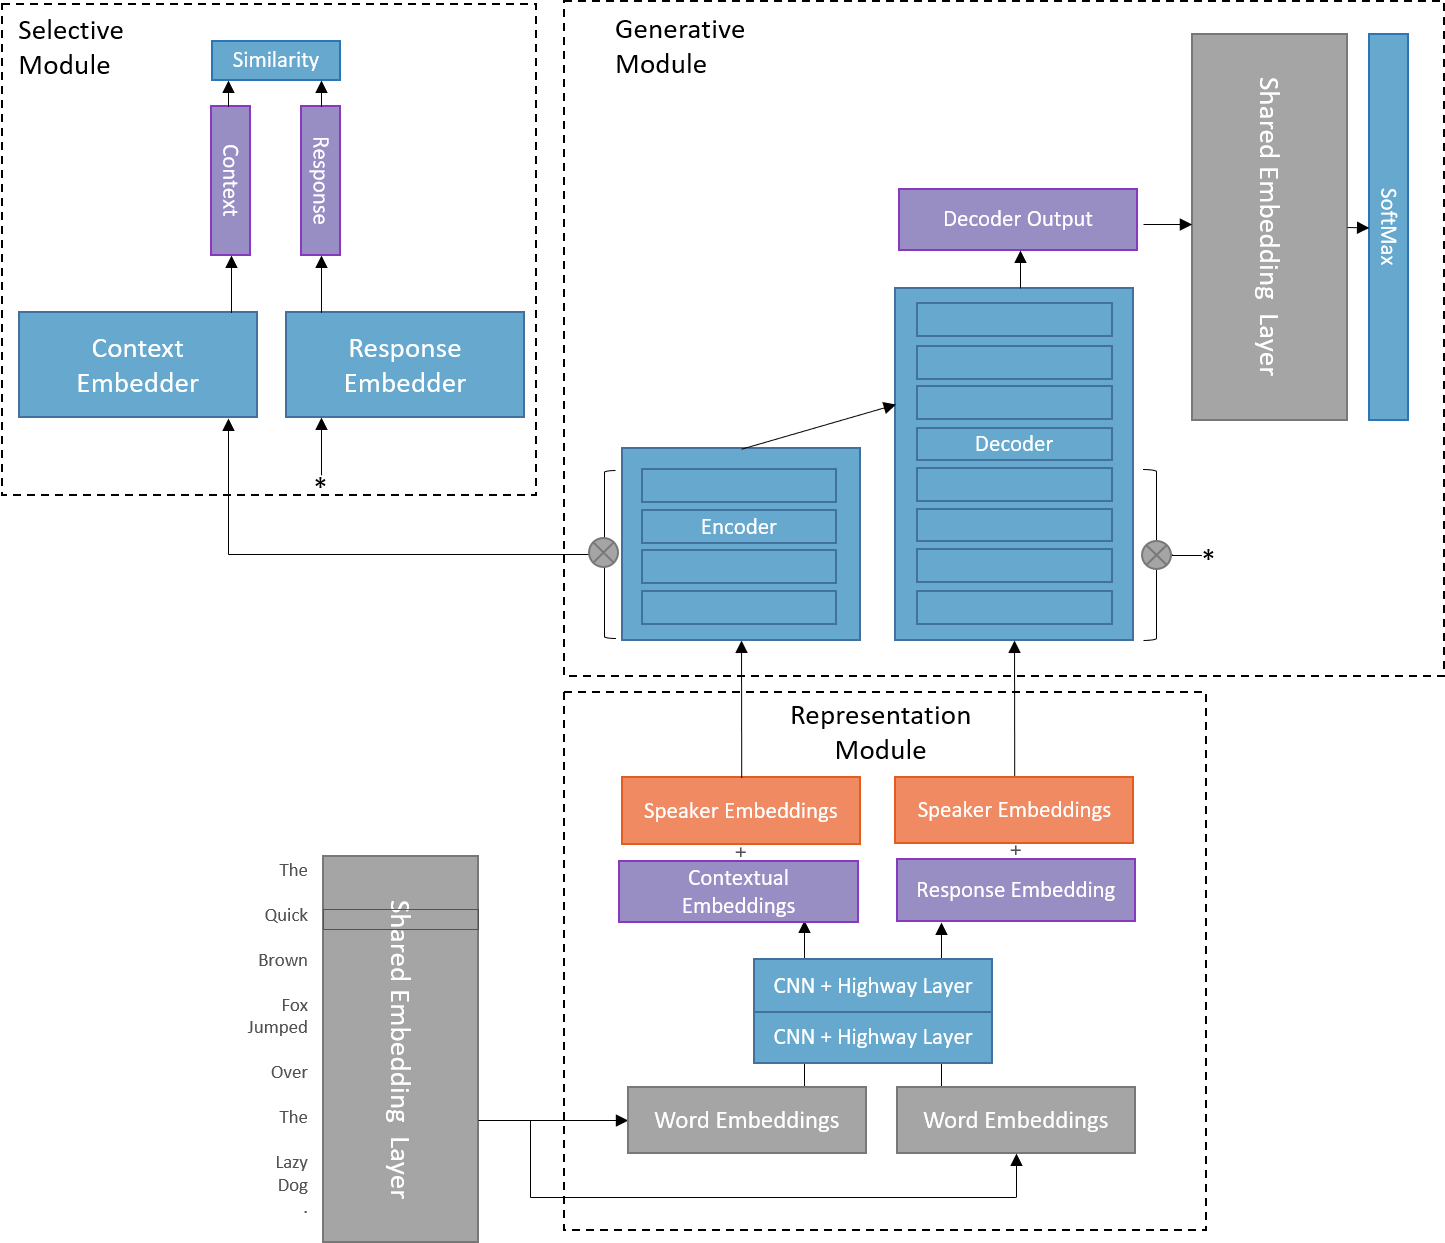
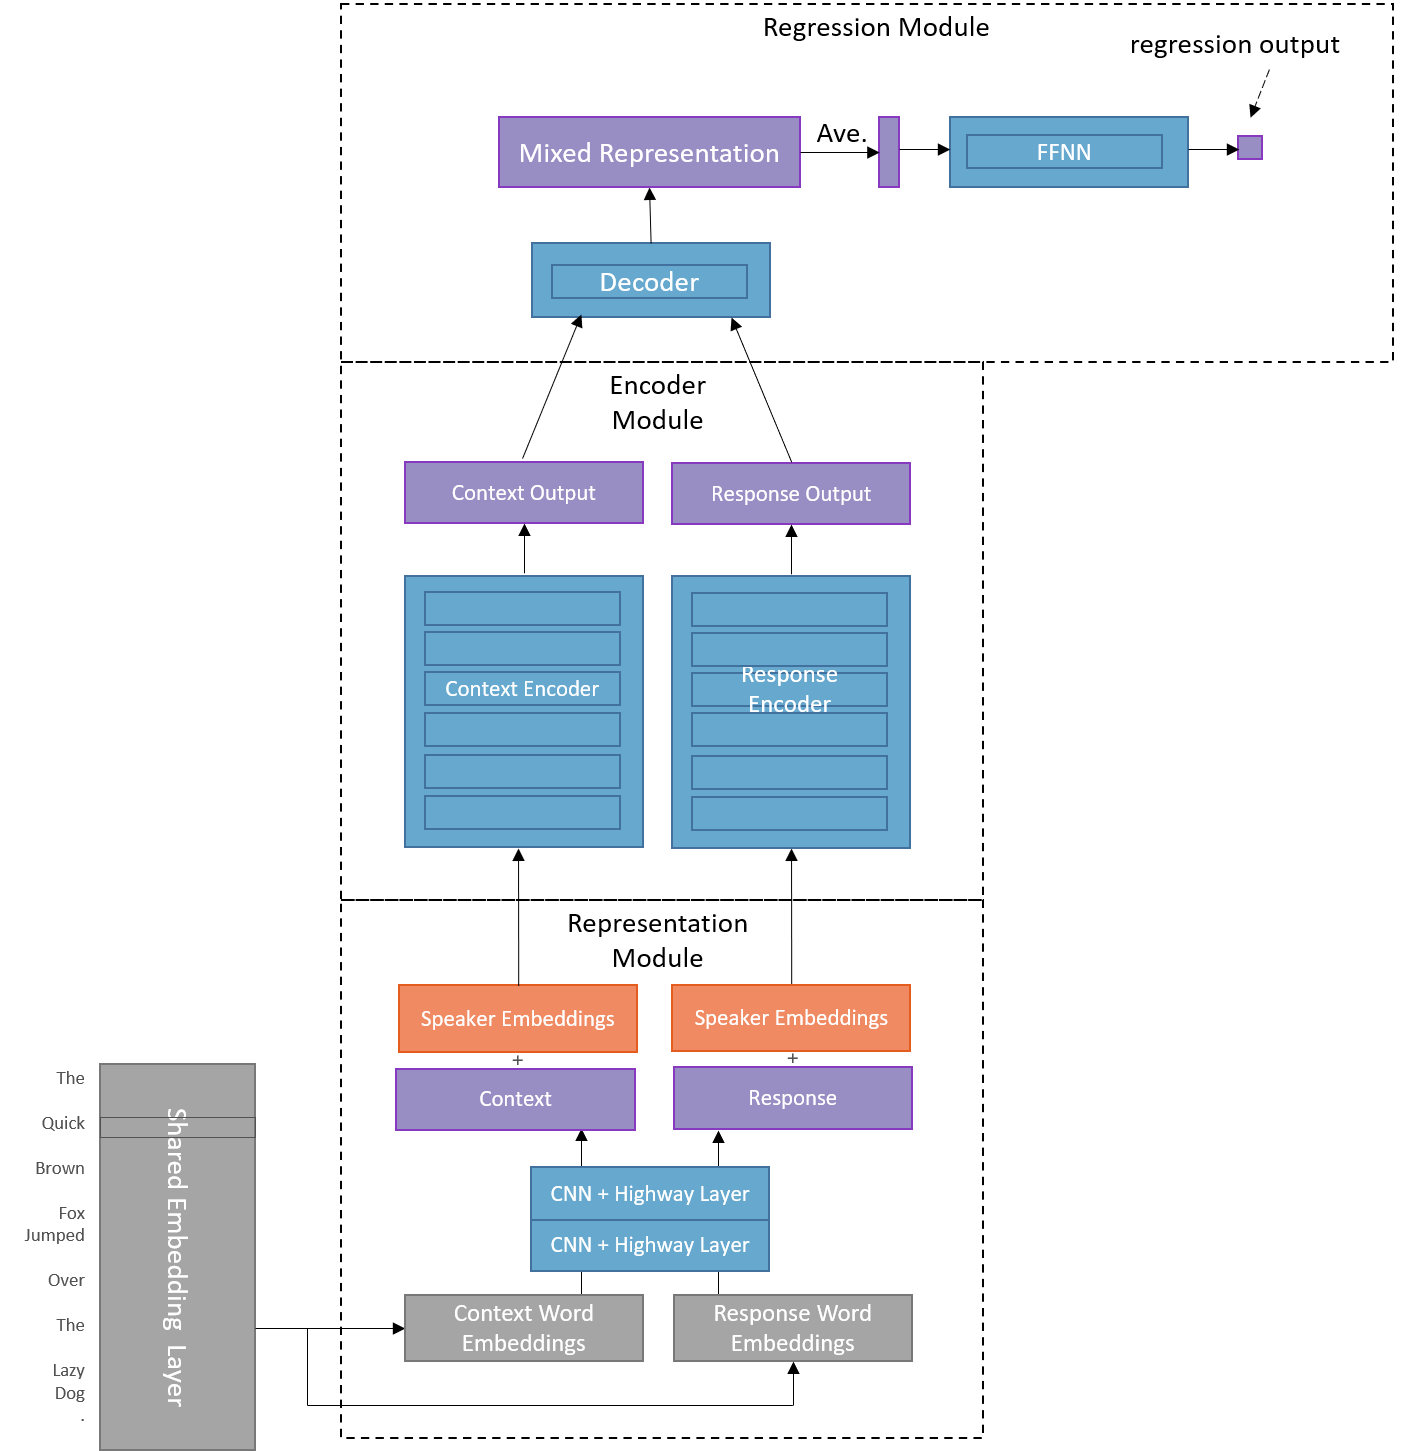
updated readme

diff --git a/README.md b/README.md
@@ -1,31 +1,38 @@
-# ChatterBot: Jointly Generative and Selective Transformer Chatbot
+# ChatterBot: Transformers for Selective Chatbot
 
 ## Description
 
-Fundamentally, a generative chatbot can be constructed using the same techniques and architectures as a neural machine translation problem. The conversation is *encoded* into a context, then that context is *decoded* into a new reply which is constructed auto-regressively using a conditioned language model. Previously, the go-to architecture for modeling these seq2seq-style problems was the RNN, then RNN+attention, and now the fully-attentive Transformer. Generative chatbots can produce novel response to novel context if trained on enough data, but are prone to generic responses. Additionally, the language they use is a reflection of their corpus, which can be problematic if trained on a corpus like Reddit text, and they are not well-suited for task-oriented conversations.
+Recent advancements in seq2seq models, specifically the Transformer, have shown promise in creating an end-to-end chatbot solution. Google recently showed with Meena that an interesting conversant can be trained with a purely generative model, but its application in goal-oriented environments or specific domains remains illusive because of the massive amount of training data required. Also, with generative models, the owner cannot supply pre-existing responses, which opens them up to risk the chatbot might say something offensive or off topic. 
 
-The other category of chatbot is the Selective chatbot. This style of chatbot uses similarity scores between an embedded context and a database of candidate responses to choose the most appropriate response. This allows the designer to hand-craft dialogue and control how the bot interacts with users. Unfortunately, this means the conversation will never be original.
-
-Scoring candidate responses is itself an sequence-related problem, and could be concievably framed with a Transformer model acting as the embedding architecture from which to calculate similarity scores. Because the generative and selective chatbot formulations suggest the use of similar models and share a similar foundation in language understanding, I believe the tasks can be learned jointly to create a model that performs better on either task than trained seperately. 
-
-For example, the generative chatbot is essentially a language model, the underpinning of many recent successes in NLP transfer learning. This suggests a better selective chatbot may be built around or with a language model. Conversely, a strictly generative chatbot may be able to ad-lib, but will fail in task-oriented situtations. A hybid model which can choose from novel text and pre-made responses may improve user experience in this situation.
+Because of this, selective chatbots, which choose from an array of responses are more widely applicable. The goal of this project is to design an selective chatbot architecture that uses Transformers for more contextual-aware responses.
 
 ## Architecture
 
-My architecture is based off successful literature models. Specifically, I borrowed the the use of a larger decoder than encoder found to be successful in Google's Meena chatbot, the highway layers and convolutional layers in attention modules of QANet, and the multilayer concatenation used to construct high-dimensional embeddings found in ELMO. 
+<div style="float:left;width:49%">
+<img src="readme_materials/architecture.png" height = "750px"><br>
+Figure 1. Transformer selective chatbot architecture
+</div>
 
-Inputs to the model consist of context and response sequences, which share the same subword-embedding matrix and causal convolutional highway layers, and learn shared higher-order representations from input subwords. Next, learned speaker embeddings are added to the word representations to mark boundaries in conversations, and perhaps inject substitutable personality into the chatbot. These layered sequence representations are fed into the encoder and decoder layers of the Transformer seq2seq model with learned relative positional encodings, which outputs a distribution over the same shared subword matrix for next word selection.
+<div style="float:right;width:49%">
+<img src="readme_materials/encoder_layer.png" height = "750px"><br>
+Figure 2. Encoder layer arcitecture<br>
+</div>
 
-The selective module of my chatbot takes as input the concatenation of the outputs of the first four layers of the decoder and encoder stacks, which creates a rich, high-dimensional representation of the context and response. As shown in ELMO, concatenation of successive layers of processing yields representations with a higher degree of diversity in the functions being modeled. The selective model is composed of transformer layers, and the output context/response embedding vectors are averages of the transformer output vectors, as in S-BERT, a powerful sentence comparison architecture. These embedding vectors are compared with cosine similarity, with likely context-response pairs being closer in cosine similarity than unlikely pairs. The triplet loss for the selective model and crossentropy loss for the generative model will be trained seperately. First, the generative portion of the model will be trained, during which it will learn meaningful representations for input to the selective model, then the generative model's weights will be frozen and the selective model trained. 
+<div style="clear:both"></div>
+<br>
 
-This dual-training scheme will yield complimentary models. The generative model will produce novel, but safe responses, while the selective model can both rate the generator's responses or choose curated responses from a database. Because the generative model supplies a rich, contextual input to the selective model, my selective model may be able to generalize to new response databases and use cases more easily than a selective model that is not joinly trained with a language model.
+My approach to using the Transformer architecture is outlined in Figure 1. First, I employ word2vec embeddings for representation of the context and response sequences, which are then run through a shared highway CNN layer that serves to blend word embeddings with n-gram context. On top of these representations, speaker embeddings are concatenated that encode the who authored each word in the sequences. 
 
-<br><img src="readme_materials/architecture.png" width=750><br>
-Figure 1. Chatbot architecture.<br>
+Next, the context and response are passed through a powerful Transformer encoder blocks that extract important semantic information from each sequence. The architecture for each encoder block is shown in Figure 2, and incorportates depthwise-seperable convolutions and relative positional encodings, both shown to increase the effectiveness of the basic Transformer block pioneered in Vaswani, et al. 
+
+With the context and response processed by the encoder blocks, their representations are mixed in single Tranformer decoder block, which calculates context-response multi-headed attention. The rational behind this small decoder is that the response database is stored as encoded sequences. An incoming context sequence is also encoded. To select a response from the database, the "Regression Module" must compare encodings of every response for the given context, and it must do this quickly. 
+
+Following the decoder block, the representation is averaged over time, and the flattened output linearly transformed to give a "compatibility score". Triplet loss training ensures compatible context-response pairs have higher scores.
+
 
 ## Data
 
-### Conversation Modeling
+#### Conversation Modeling
 
 The database I am using includes 3 million tweets from conversations between users and customer service accounts for major brands including Spotify, Apple, and Playsation. In long form, this database gives each tweet as a response to one or more other tweets. Furthermore, a tweet may be a response to multiple tweets from different users, or multiple tweets in series from the same user. All this makes Twitter conversations unexpectantly convoluted, and so I took to thinking of conversations as DAGs. Below is an example of interdependencies between tweets represented as a DAG, each edge being a response connection. Nodes A.1 and A.2 are tweets by the same user that were both responded to by tweet C. My algorithm for generating topological orderings uses breadth-first with one-step lookahead from root nodes and flattens layers of the graph to include single-user tweet series. Given the DAG in Figure 2, my algorithm finds the listed conversations chains, while merging multi-message-one-user events into agglomerated messages.
 
@@ -42,46 +49,28 @@ Figure 3. Length of conversations in the dataset.
 
 Constructing these conversation trees hit the upper limit of my processing power, but I would like to add more conversations to my training data. Fortunately, another customer support corpus, the Ubuntu dialogue corpus, has a similar structure so I can easily adapt my script to mine its *(context, response)* pairs as well. Unfortunately, It contains over 8 times as much data, so I will need to rent some processing power before I can add that source to my data. 
 
-### Subword Embeddings
+#### Normalization and Preprocessing
 
-The go-to method for representing language in a fixed-length vocab for neural networks is subword embedding, where common words can be represented directly, while rare words can be constructed out of smaller multi-character blocks. This allows the network to learn higher level meanings for many words while also eliminating the out-of-vocab problem when encountering new words. My pre-processing technique for the tweets will follow these steps:
+The text in my database is straight from Twitter, and is quite noisy with URLs, phone numbers, usernames, and emojis. All these are junk that may detriment training of my chatbot, so I wrote regex expressions that filter for these effects and replace some that are semantically relevant with a token. For instance, all usernames were replaced with "\<usr\>" and all URLS were replaced with "\<url\>". 
 
-1. Use regex to filter out urls, phone numbers, signatures, usernames, and emojis, replacing some with tokens,
-2. Use Sentencepiece encoding for tokenization into subwords. The vocab size, 8000, was taken from Google's Meena which found this to be sufficient for generating quality responses while reducing the model parameters.
-3. Encode subwords as index from vocabulary.
-4. Append and pad sequences for feeding into network.
+Next, I tokenized the text using Sentencepiece byte-pair encoding, which is a language agnostic technique that iteratively builds n-grams from frequent sequences. This encoding technique eliminates the Out-of-Vocab problem faced with traditional word level tokenization, as frequent words are represented as their whole string, while rare words are deconstructed into a series of subwords and chargrams. This encoding technique also captures suffixes and prefixes that form larger words and tokenizes based on these word-parts as well. 
 
+I used a pre-trained byte-pair encoder from the BPEmb package, and I populated my embedding layer with their pre-trained distributed word vectors. Since I introduced my own custom tokens into my representation, I randomly initialized their embeddings to be trained later by backprop.
 
-### Embedding Layer
+Lastly, I encoded the text and speaker ids into padded sequences and stored them for fast loading and transforming during training.
 
-I used word2vec to obtain pre-trained word embeddings, which will be frozen during training to reduce model complexity. The same embeddings will be used for the encoder, decoder, and softmax layers of the Transformer to further reduce parameter size.
+## Training
 
-### Training
+#### Mixed Precision
 
-To reduce the space needed to train this model, I trained with mixed precision. Weights, loss, and gradients were calculated in fp32, while forward propagation was calculated in fp16. I utilized dynamic loss scaling to prevent gradient underflow. Training metrics were recorded to a Tensorboard dashboard every 50 steps, and the model was evaluated on the test set using the same metrics at the end of every epoch. Additionally, samples of the model's response to test-set contexts were sampled and displayed every epoch. 
+To reduce the space needed to train this model, I trained with mixed precision. Weights, loss, and gradients were calculated in fp32, while forward propagation was calculated in fp16. I utilized dynamic loss scaling to prevent gradient underflow. Training metrics were recorded to a Tensorboard dashboard every 50 steps, and the model was evaluated on the test set using the same metrics at the end of every epoch. 
 
-On a Azure DSVM instance with a single P40 GPU, I used a batch size of 256, and an initial learning rate of 0.001 that decayed with the inverse square of the step after 10000 warm-up steps.
+#### Online Triplet Mining
 
-# Results
+Tiplet loss depends on an Anchor, Positive, and Negative example. In my case, the Anchor is always the context, while the positive example is the ground truth response and the negative example is any other response from the corpus. To train using this method, one must find "hard" triplets, such that the compatibility between the anchor and negative example is higher than between the anchor and positive example plus some margin. Rather than mine triplets at the start of an epoch, I used online triplet mining.
 
-Training is ongoing at this moment! I estimate the generative model will need to train for 15 days to make interesting responses, so I am spinning up for training when I don't need my computer for anything else. So far we're at 5 full days of training and chatbot responses are not interesting/thoughtful as of yet. Train and test losses plunge promisingly downward. The problem of short/safe responses is already revealing itself, as the stop token that truncates the response is selected with high probability after one or two words in the response. Ultimately, this generative chatbot may never produce interesting responses, but will provide rich contextual embeddings for the selective portion of the model.
+A given batch of 64 *(context, response)* pairs contains 64 positive examples and 4032 negative examples. After calculating the compatibility between every context-response pair in the batch, the semi-hard and hard triplets' scores are averaged according to the Batch All strategy. The difference in compatibility between positive examples and averaged hard negative examples forms the training loss.
 
-<hr>
-Chatbot Samples:<br>
-Tweet: So sad how BAD @116988 customer service went from best to worst. India agents have no clue and screw up everything. <br>
-Response: <@usr> Why
-<br><br>
-Tweet: @115850 now confused,same product showing two prices same time. Have already paid 2099 in one of the order thinking I am paying ~978 https://t.co/SyCN5cKH23 <br>
-Response: <@usr> Lol
-<hr>
-<img src="readme_materials/training_progress.png">
+## Results
 
-#### Catastrophe! A windows update killed my training routine and restarting the model does not lead to further reduction in training loss. This is likely because the ADAM optimizer's weight-specific gradient variables were not saved, so the optimizer lost momentum and is stuck in some minima. I'll have to retrain from scratch.
-
-# Conversation Strategy
-
-Once the generative model is done training, I could use a number of sampling techniques to generate high quality responses. The main requirement of the chosen sampling technique is that it must promote longer responses than I am observing from the model right now. 
-
-I plan to test and compare two response-generating strategies:
-1. Beam Search -> Concurrently grows multiple hypotheses to maximize P(Y|X)
-2. Sample and Rank -> Recently shown to produce good results with Google's Meena chatbot. A simple method where many replies are generated, then ranked on some non-differentiable metric to choose the best response.
+Training is ongoing at this moment! 
